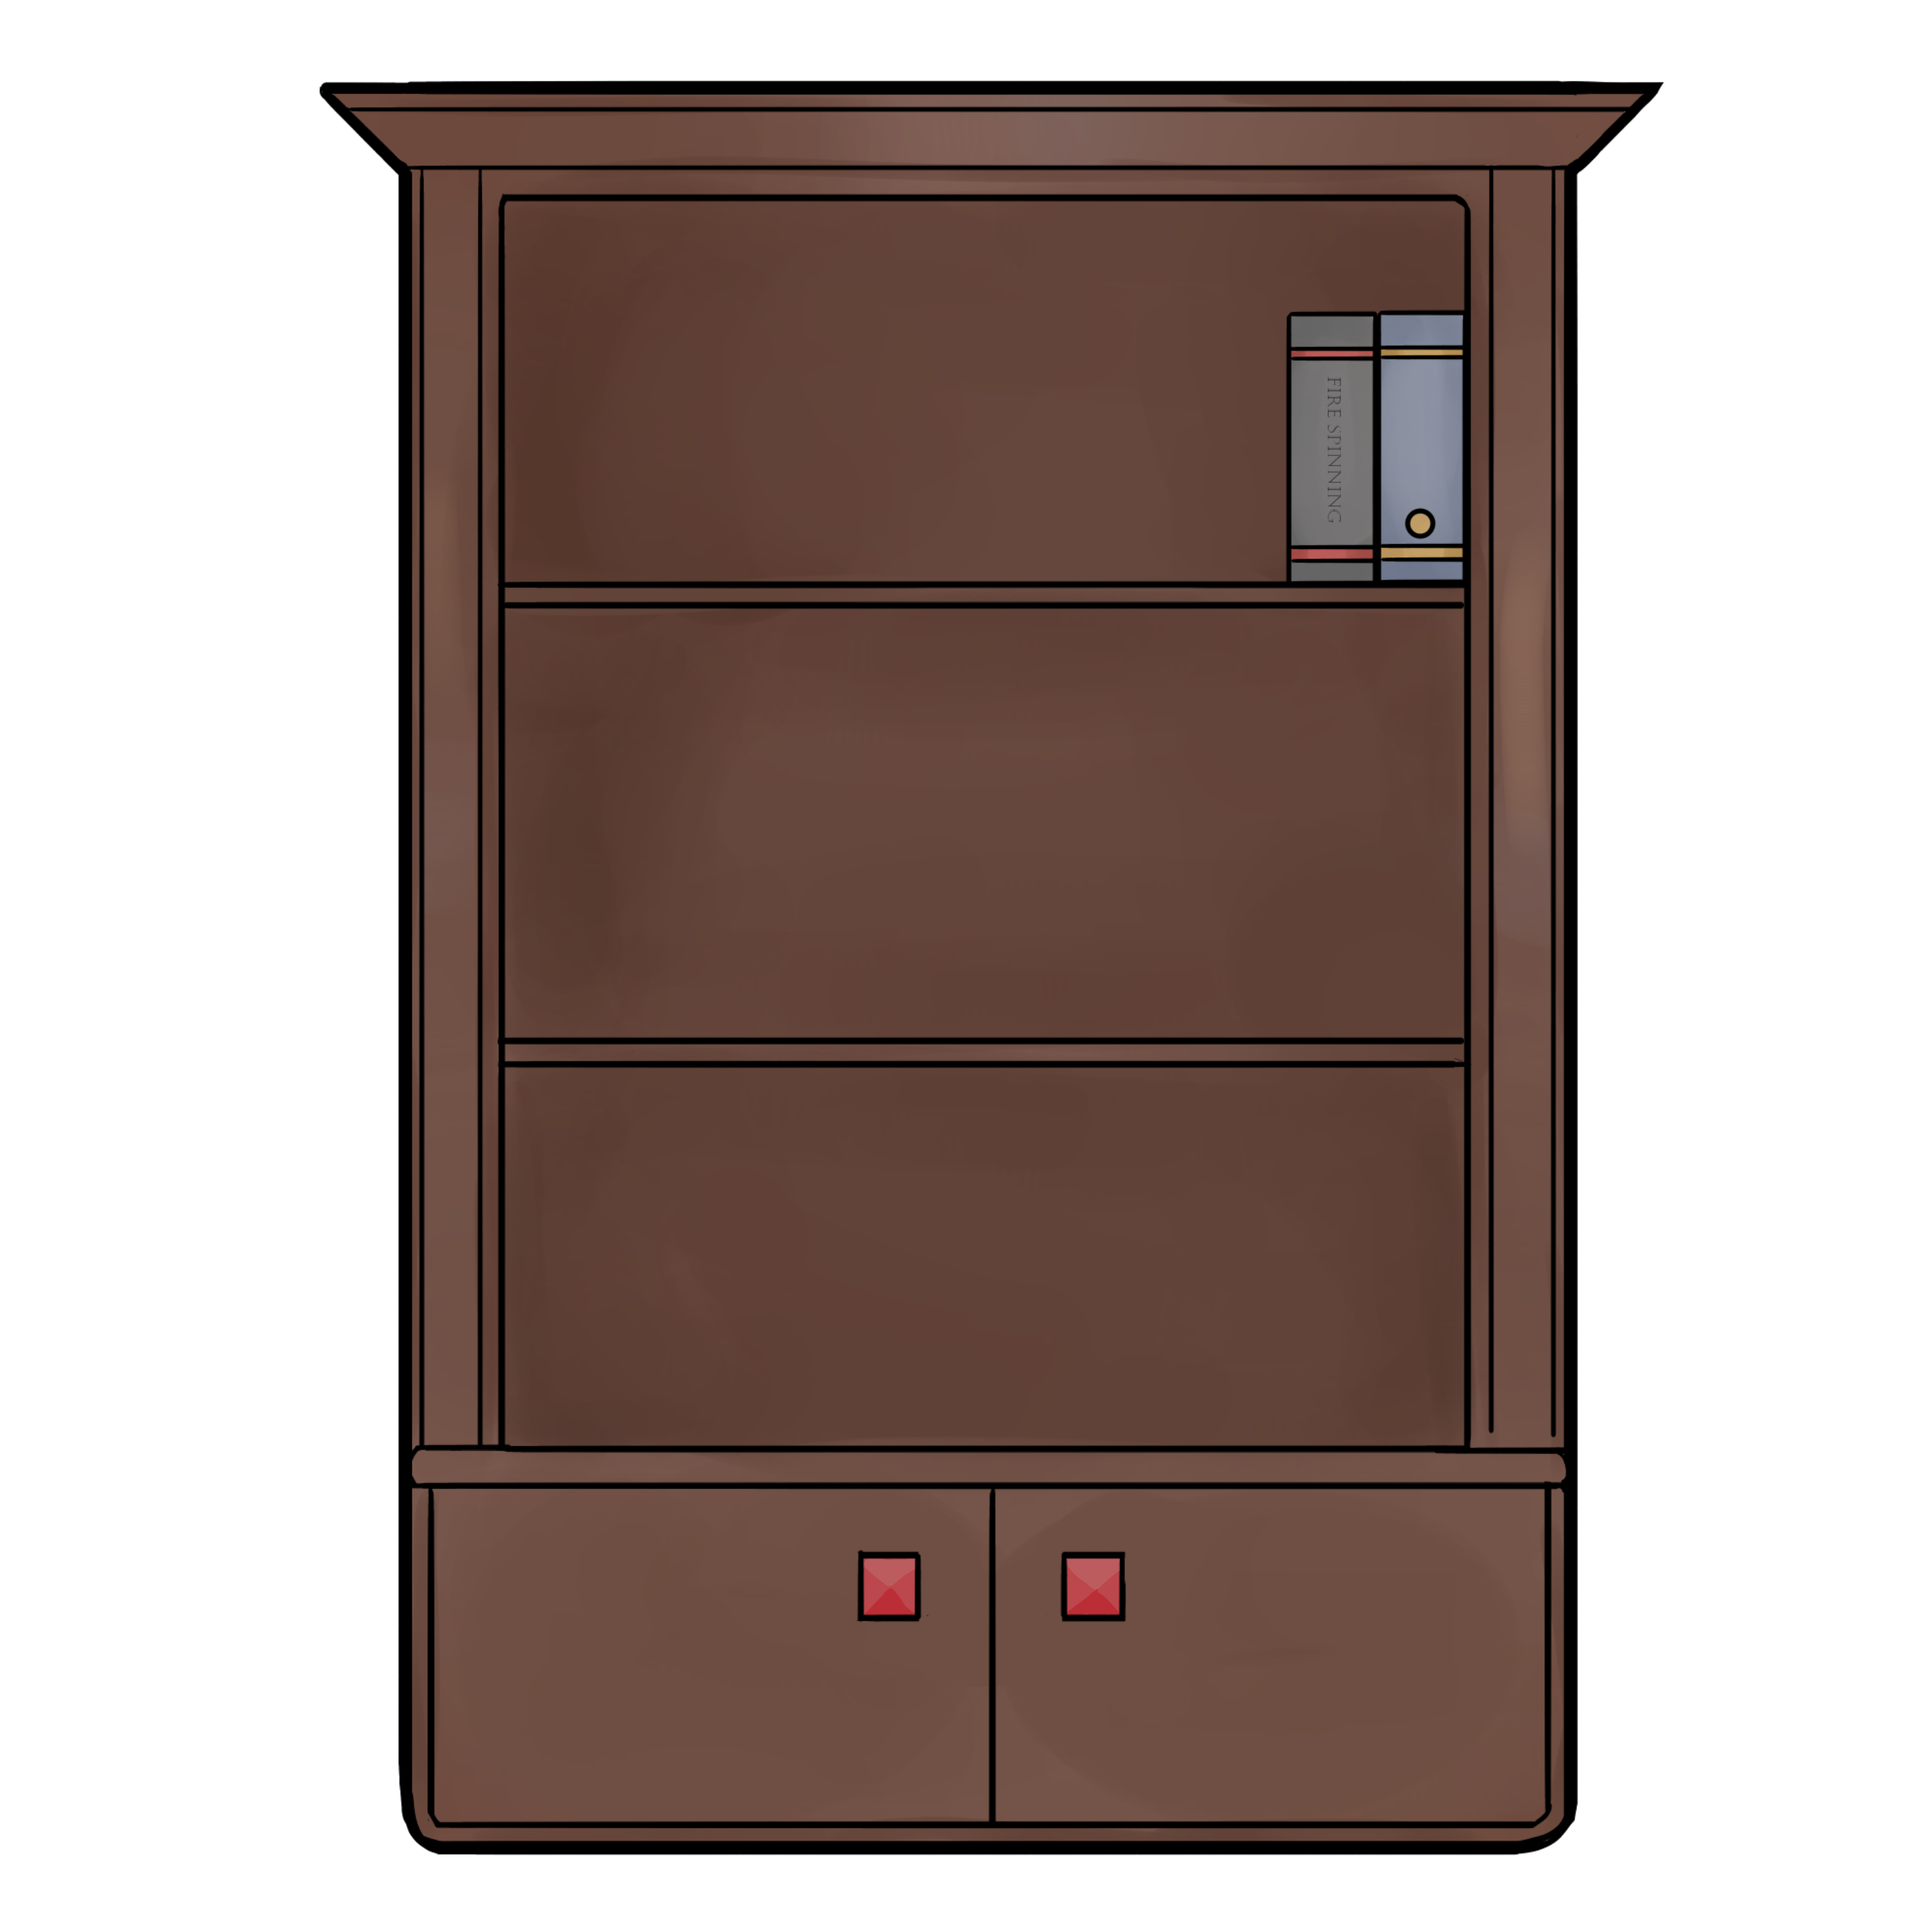
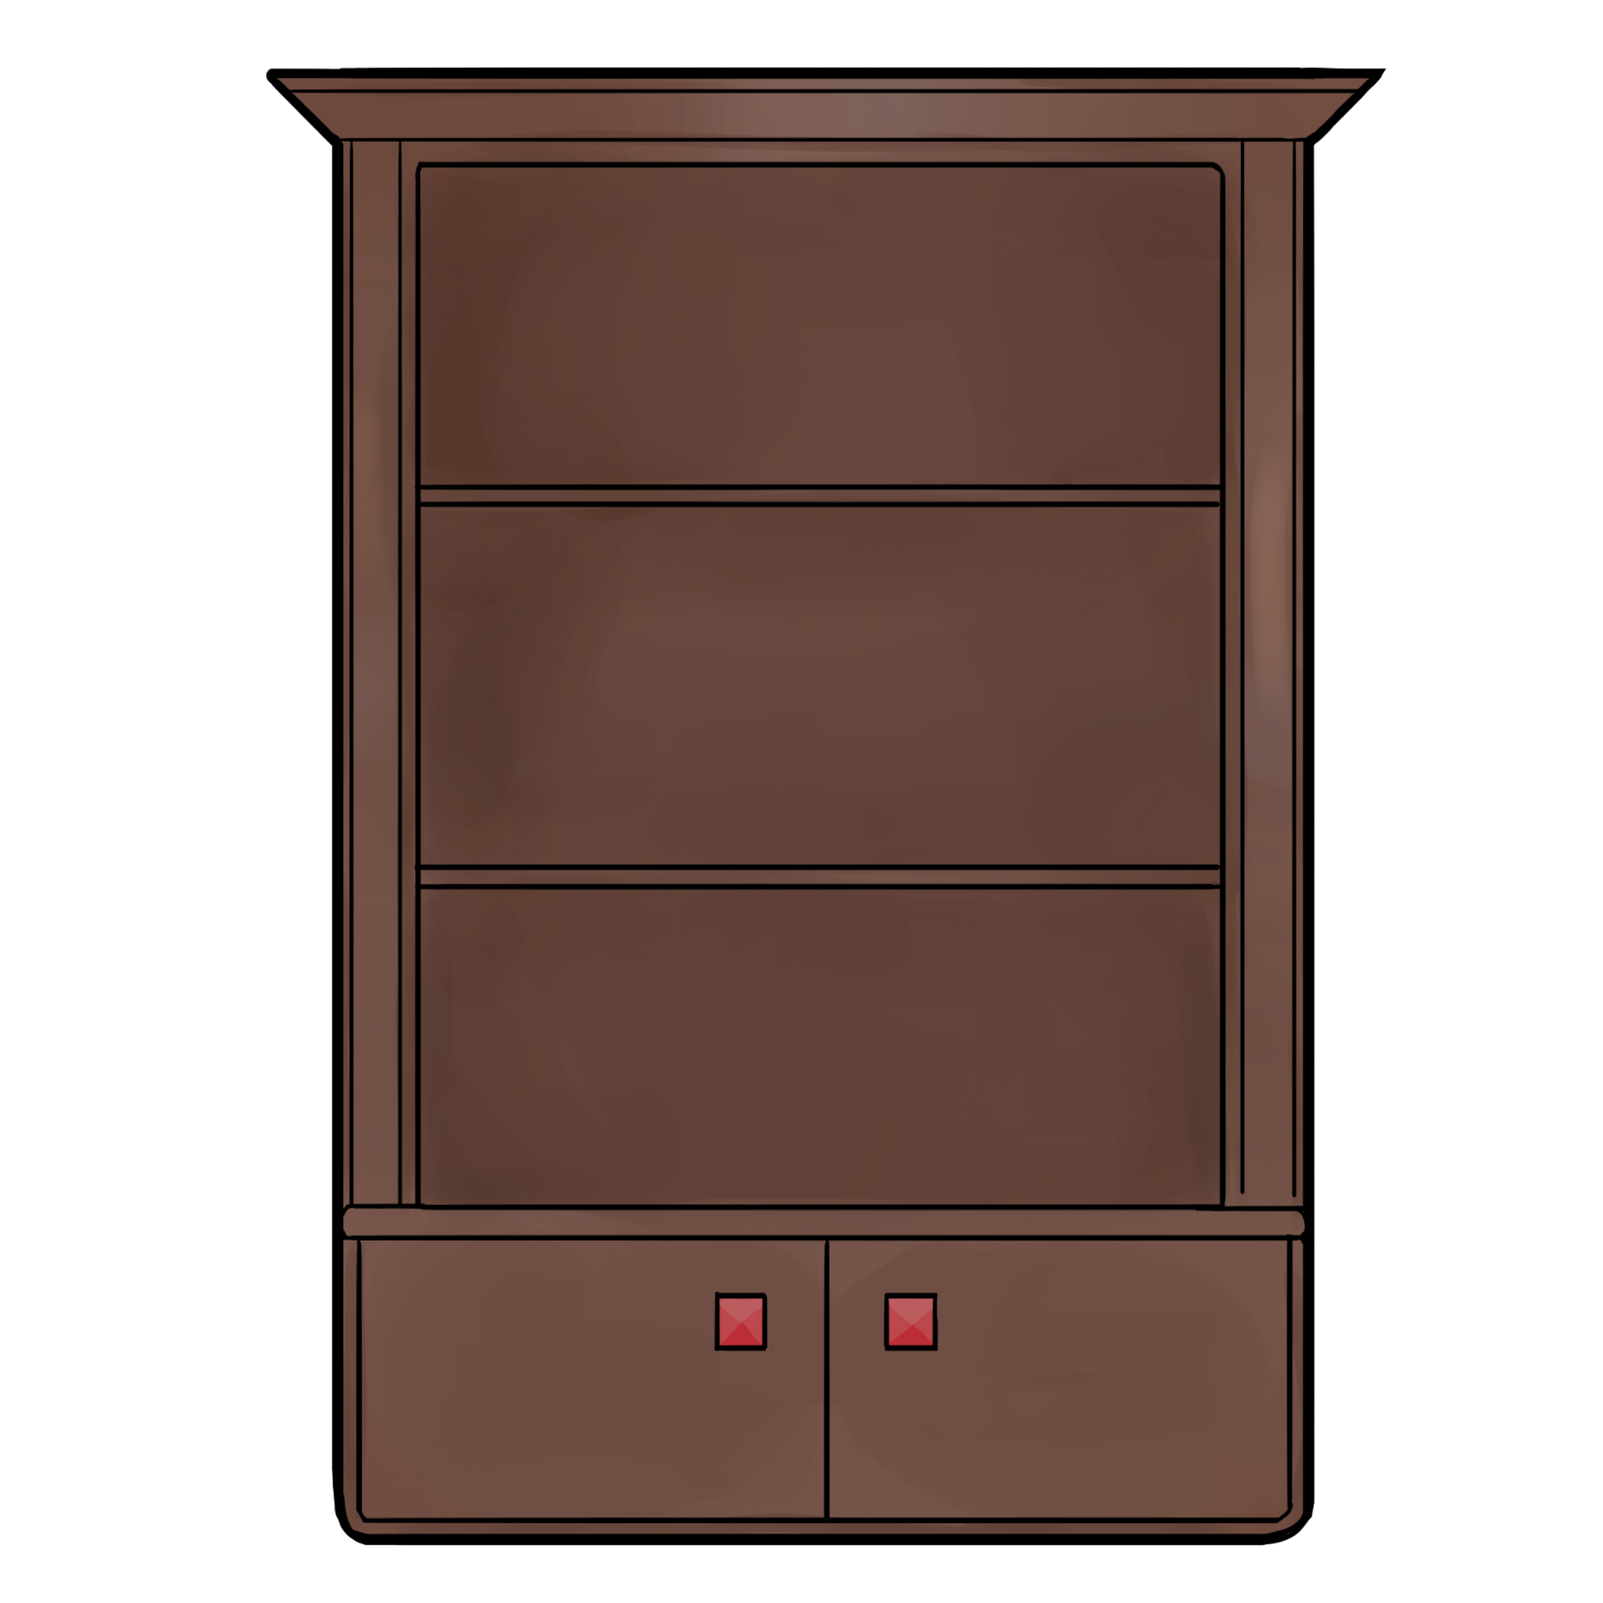
Rescaled images, added hint for potion. Moved text box to fix item placement bug.

Changed region(s): [[0.6552, 0.156, 0.78, 0.312]]

diff --git a/CS320_Project/src/edu/ycp/cs320/project/persist/DerbyDatabase.java b/CS320_Project/src/edu/ycp/cs320/project/persist/DerbyDatabase.java
@@ -1045,7 +1045,7 @@ public class DerbyDatabase implements IDatabase {
 				
 				user = findUserByName(user.getUsername());
 				Item itemToAdd = item;
-				//set the position to 4 (because it is being added to the cauldron
+				//set the position to 4 (because it is being added to the cauldron)
 				itemToAdd.setRoomPosition(4);
 				System.out.println("Number of ingredients before adding: " + ingredients.size());
 				//2 represents the number of ingredients needed. Change this later when all ingredients are added
@@ -1054,10 +1054,20 @@ public class DerbyDatabase implements IDatabase {
 					addItemToRoom(itemToAdd, user.getRoom().getRoomID());
 					//refresh user
 					user = findUserByName(user.getUsername());
-					//add to ingredients to keep track of the number of ingredients
-					ingredients.add(itemToAdd);
 					//remove the item that is used
 					removeItemFromInventory(item, user.getUserID());
+					ingredients = new ArrayList<Item>();
+					items = user.getRoom().getItems();
+					//items with position 4 are items that were used on the empty cauldron. get these items
+					for(int i = 0; i<items.size();i++) {
+						if(items.get(i).getRoomPosition() == 4) {
+							ingredients.add(items.get(i));
+							System.out.println("Ingredient added: " + items.get(i).getName());
+							if(user.getRoom().getItems().get(i).getName().equals("Empty Cauldron")) {
+								selected = user.getRoom().getItems().get(i);
+							}
+						}
+					}
 				}
 				
 				System.out.println("Number of ingredients after adding: " + ingredients.size());
@@ -1069,7 +1079,7 @@ public class DerbyDatabase implements IDatabase {
 							//make a full cauldron item by changing the name 
 						Item emptyCauldron = selected;
 						Item fullCauldron = selected;
-						fullCauldron.setName("Cauldron with potion");
+						fullCauldron.setName("Cauldron with Potion");
 						//if the potion was made swap the empty cauldron with the full cauldron into the room
 						swapItemInRoom(emptyCauldron, fullCauldron, user);
 						//message telling the user they were successful
@@ -1077,11 +1087,11 @@ public class DerbyDatabase implements IDatabase {
 						Item firstItem = ingredients.get(0);
 						Item secondItem = ingredients.get(1);
 						//remove the items (they do not need to be used anymore)
-						removeItemFromRoom(firstItem, user.getRoom().getRoomID());
-						user = findUserByName(user.getUsername());
-						secondItem = user.getRoom().getItems().get(user.getRoom().getItems().size()-2);
-						System.out.println("removing: " + secondItem.getName());
 						removeItemFromRoom(secondItem, user.getRoom().getRoomID());
+						removeItemFromRoom(firstItem, user.getRoom().getRoomID());
+						
+						
+						
 					}else {
 						//if they are incorrect return the items to inventory and remove them from ingredient list
 						Item firstItem = ingredients.get(0);

diff --git a/CS320_Project/src/edu/ycp/cs320/project/servlet/MainpageServlet.java b/CS320_Project/src/edu/ycp/cs320/project/servlet/MainpageServlet.java
@@ -204,8 +204,16 @@ public class MainpageServlet extends HttpServlet {
 		for(int i = 0; i <= model.getUser().getRoom().getItems().size() - 1; i++) {
 			String itemName = model.getUser().getRoom().getItems().get(i).getName();
 			if(req.getParameter(itemName) != null) {
+				
+				System.out.println(itemName + " was selected");
 				req.setAttribute("textOutput", "You found a " + itemName);
 				req.setAttribute("selected", itemName);
+				if(itemName.equals("Untitled Book")) {
+					System.out.println("untitled book text");
+					req.setAttribute("textOutput", "You found a book of spells. Most of the pages are blank or damaged. " +
+					"Page 1: Potion of S_ _ ed: fea_he_, l_me j_ _c_, c _ _ _ _ r, c_ove_, b_u_ fl_ _ e_     " +
+							"Page 2: Potio_  o_  T_l_ _n_:  H_ir o_ th_ an_ _ _l, l_ck_ c_ov_ _, w_shb_ _ _, li_ _ ju_ _ _ ");
+				}
 					
 			}
 		}
@@ -217,9 +225,8 @@ public class MainpageServlet extends HttpServlet {
 				System.out.println(invItem + " was pressed");
 				if(req.getParameter("selected") != null && req.getParameter("selected").equals("") == false) {
 					
-					System.out.println(req.getParameter("selected"));
 					Item selected = controller.findItemByName(req.getParameter("selected"), items);
-					System.out.println(selected == null);
+	
 					System.out.println(selected.getName() + " is the selectd item");
 					String message = "";
 					message = controller.useItem(inventory.get(i), selected);
@@ -268,9 +275,7 @@ public class MainpageServlet extends HttpServlet {
 						items.add(model.getUser().getRoom().getItems().get(i));
 					}
 				}
-				for(Item item : items) {
-					System.out.println(item.getName() + " is in the room");
-				}
+				
 		req.setAttribute("items", items);
 		req.getRequestDispatcher("/_view/main_page.jsp").forward(req, resp);
 	}

diff --git a/CS320_Project/src/edu/ycp/cs320/project/sqldemos/PotionQuery.java b/CS320_Project/src/edu/ycp/cs320/project/sqldemos/PotionQuery.java
@@ -33,6 +33,11 @@ public class PotionQuery {
 		//refresh user
 		user = db.findUserByName(username);
 		//get the items back from the refreshed users
+		for(int i = 0; i<user.getRoom().getItems().size();i++) {
+			if(user.getRoom().getItems().get(i).getName().equals("Empty Cauldron"));
+			cauldron = user.getRoom().getItems().get(i);
+		}
+		
 		cauldron = user.getRoom().getItems().get(user.getRoom().getItems().size()-1);
 		catHairs = user.getInventory().get(user.getInventory().size() - 2);
 		hibiscus = user.getInventory().get(user.getInventory().size() - 1);
